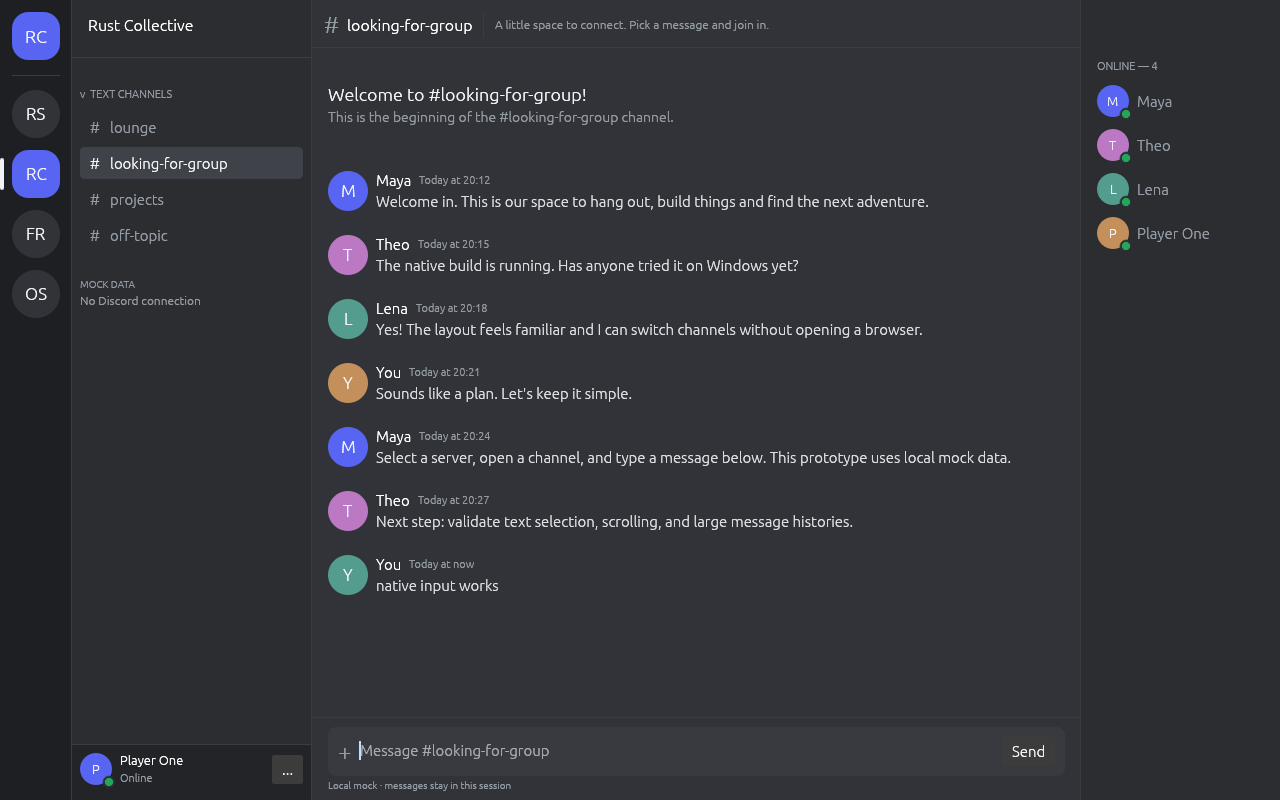
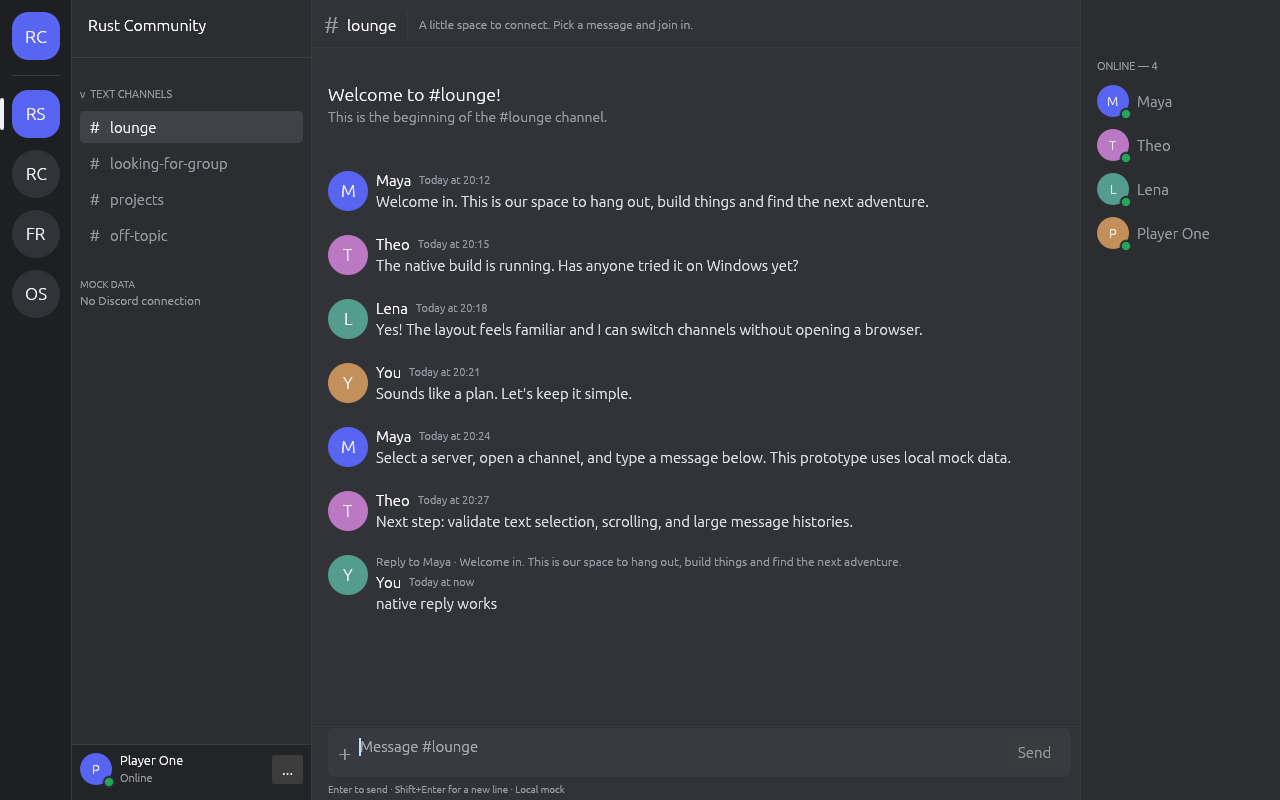
docs: record desktop composer behavior and measured release
Validation: reviewed documentation against implemented controls and tests, checked local Markdown links and git diff --check. Updated native preview. Recorded Linux measurements and Windows/IME/remote CI validation limits.

diff --git a/docs/architecture.md b/docs/architecture.md
@@ -119,6 +119,34 @@ fora do build e runtime padrão. Não há worker de gamepad ou dependência gilr
 aplicativo padrão. Integração com controles/Console Mode deve ser reconsiderada
 somente depois de provar a usabilidade desktop.
 
+## Composer e respostas locais — incremento M2
+
+`AppState` é a fonte de verdade dos rascunhos: texto limitado a 2.000 caracteres
+Unicode e ID opcional da mensagem respondida. `UpdateDraft`, `SendDraft`,
+`ReplyTo` e `CancelReply` são comandos independentes do dispositivo. A UI mantém
+somente o buffer do editor e estado de composição/foco. Cada conversa tem um ID
+egui distinto, isolando cursor e undo. Rascunhos vivem só em memória, limitados
+pelos canais do snapshot mock; as chaves atuais são índices servidor/canal.
+Antes de snapshots reais/reordenação, migrar para IDs estáveis de conversa e
+estabelecer orçamento global/expiração para rascunhos e estado dos editores.
+
+Enter envia apenas sem modificadores, com foco no editor, sem repetição e sem
+composição IME ativa; Shift+Enter insere linha. Frames com eventos IME não enviam
+mensagens: confirmar um candidato não pode enviar o texto. Testes sintetizam
+esses eventos; validar IMEs reais e acessibilidade no Windows continua pendente.
+O editor cresce até seis linhas visuais e depois permite scroll interno.
+
+Responder abre o composer e conserva o texto. Escape/cancelar remove somente a
+referência; enviar limpa apenas o rascunho atual. Referências usam o ID da mensagem,
+sem apontar para outra mensagem se o histórico descartar o original. Originais
+já descartados exibem aviso; enviar não conserva um alvo que não existe mais.
+A lista é limitada a 200 mensagens por canal e ainda não é virtualizada.
+
+Menu de mensagem é um popup nativo egui, com responder, reação local e copiar.
+Clipboard pertence ao adaptador UI/plataforma (`ctx.copy_text`), nunca ao core
+Discord. F2 usa o mesmo menu e reducer; ao confirmar a opção de cópia, a UI emite
+o comando de clipboard antes de fechar o menu. Configuração permanece modal.
+
 ## Performance e observabilidade
 
 Sem runtime async nem rede. Sem redraw contínuo; debug amostra métricas a 1 Hz,

diff --git a/docs/performance.md b/docs/performance.md
@@ -37,8 +37,7 @@ que não é uma métrica idêntica ao RSS Linux.
 - Árvore do build padrão sem gilrs/libudev, networking async ou browser.
 
 Windows foi verificado em compilação/type checking; executável MSVC, drivers,
-DPI, startup real e working set exigem máquina Windows. CI está configurada mas
-não foi publicada/executada remotamente nesta sessão.
+DPI, startup real e working set exigem máquina Windows. CI está configurada e publicada; sua execução remota ainda não foi comprovada.
 
 ## Reproduzir
 
@@ -56,3 +55,28 @@ Próximo baseline: Windows/MSVC com GPU real, 10+ amostras cold/warm, histórico
 longo, resize/DPI, seleção de texto, IME e perfil CPU/alocações. Meta provisória
 <20 MiB de binário, <80 MiB working set idle, startup warm <300 ms e CPU idle
 <1% de um core; nenhuma meta Windows está comprovada por estes números Linux.
+
+## Incremento M2 — composer e respostas locais
+
+Mesmo ambiente Linux/Xvfb/Mesa, release, 07/10/2026. Uma amostra warm, obtida por
+`python3 scripts/measure.py`; não é evidência estatística de ganho de performance.
+
+| Métrica | Resultado |
+|---|---:|
+| Binário Linux | 7.595.232 bytes / 7,24 MiB |
+| Startup até primeira atualização de UI | 53,04 ms |
+| RSS idle, métricas desligadas | 82.829.312 bytes / 78,99 MiB |
+| RSS ao final do smoke | 83.308.544 bytes / 79,45 MiB |
+| CPU idle por 3 segundos | 0 ticks registrados |
+| CPU de construção da UI, último frame smoke | 0,221 ms |
+
+20 testes no build padrão e 23 com todas as features; fmt/clippy sem warnings,
+release Linux e check Windows GNU passaram. Eventos nativos XTest verificaram
+Shift+Enter/Enter, rascunho ao trocar canal, menu de clique direito, resposta com
+referência, cópia/colagem via clipboard e F3/Escape. A captura do README mostra
+uma resposta local enviada. Proteção IME é testada por eventos sintéticos;
+IMEs reais e execução Windows ainda precisam de validação.
+
+A CI foi publicada no repositório; não havia execuções remotas registradas antes
+deste incremento. Resultados acima são locais, independentemente do status do
+GitHub Actions.

diff --git a/README.md b/README.md
@@ -34,9 +34,17 @@ sudo apt-get install build-essential pkg-config libgl1 libxkbcommon0
 ```
 
 Select a server and channel with the mouse. Type in the composer and press
-Enter or Send to add a local message. Right-click a message for a local reaction.
+Enter or Send to add a local message; Shift+Enter inserts a new line. Drafts and
+pending replies are kept separately for each channel while the app is open.
+Right-click a message to reply, toggle a local reaction, or copy its full text.
+Replies use the composer and show a reference to the original message. F3 replies
+to the selected message; Escape cancels the reply without deleting its text.
+F2 opens the selected message menu; Up/Down and Enter choose an action.
+The native text editor supports selection, clipboard shortcuts and undo/redo;
+undo history is isolated by channel. Text is limited to 2,000 Unicode characters
+and local history to 200 messages per channel.
 The profile's `...` button opens settings; F1 opens settings and Escape closes.
-Ctrl+PageUp/PageDown changes server; Ctrl+Up/Down changes channel. Settings and
+Ctrl+PageUp/PageDown changes server; Ctrl+Up/Down changes channel. Settings, drafts and
 mock messages reset at exit. Debug metrics are enabled by default; release
 metrics require `--metrics` or enabling them in settings.
 

diff --git a/docs/roadmap.md b/docs/roadmap.md
@@ -24,3 +24,16 @@ primeiro um Discord nativo em Rust, com design e usabilidade familiares.
 
 Não implementar self-bots, tokens pessoais ou endpoints privados. Voice, vídeo,
 streaming, Activities, plugins e overlay continuam fora da fundação inicial.
+
+## Progresso M2 — composer e ações de mensagem
+
+Concluído: editor multiline, Enter/Shift+Enter, rascunhos por canal, undo/cursor
+isolados, proteção de envio durante composição IME/repeat, menu contextual
+(mouse/F2), cópia de texto, resposta editável com referência e cancelamento por
+Escape. Tudo permanece local/mock, sem dependências novas.
+
+Próximo incremento recomendado: agrupamento de mensagens por autor/horário e
+histórico virtualizado, preservando scroll ao receber mensagens/alterar canal.
+Validar longos históricos, seleção/cópia e resize; testar Windows/MSVC com GPU,
+DPI e IMEs reais antes de release. A fidelidade visual ainda exige refinamento de
+ícones/tipografia e comparação com uma referência desktop específica do Discord.
